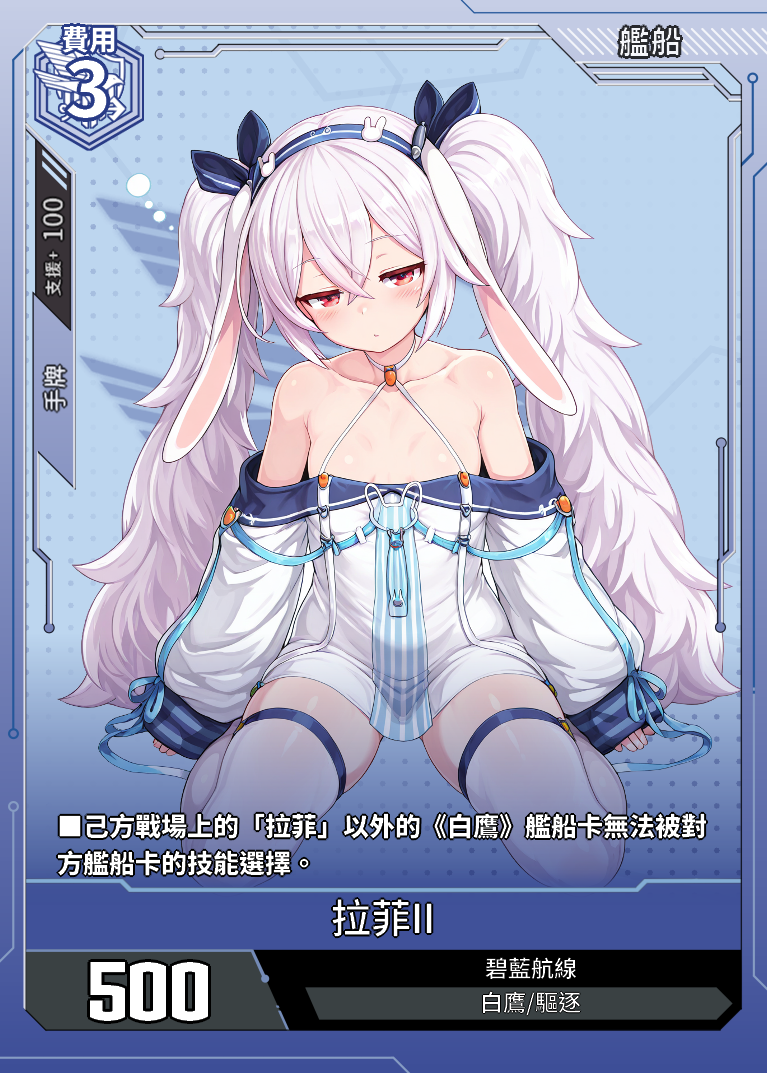
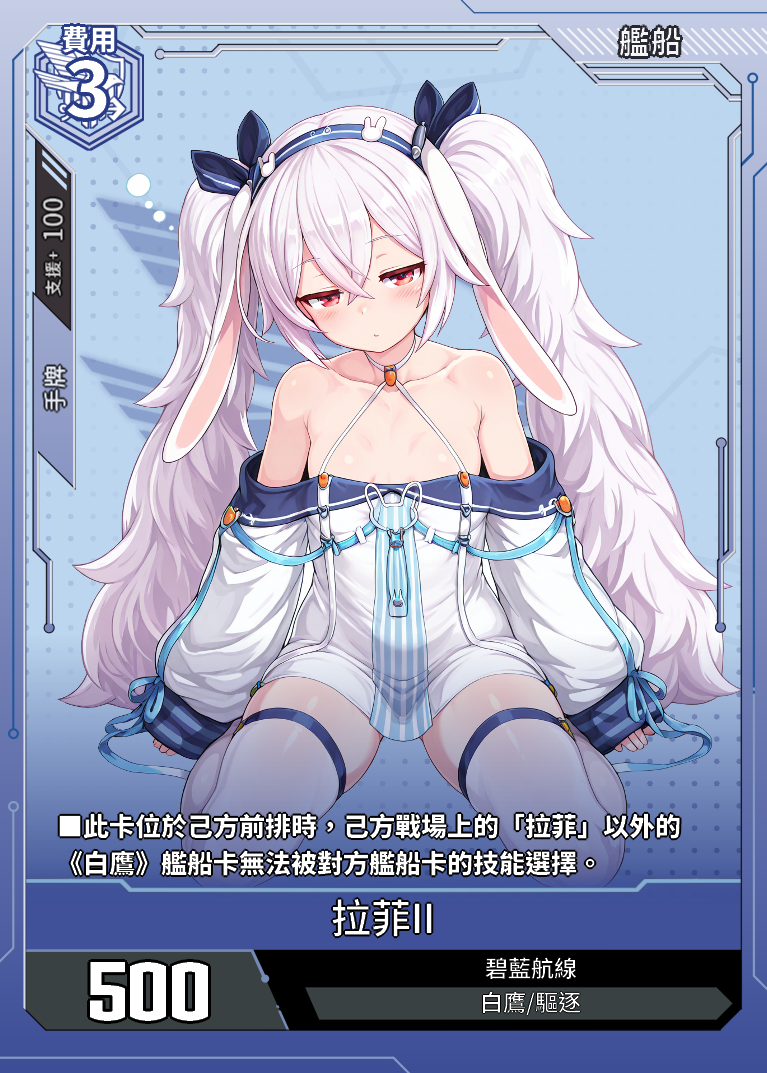
修正拉菲II

Changed region(s): [[0.06, 0.7381, 0.9296, 0.8304]]

diff --git a/data.js b/data.js
@@ -24564,7 +24564,7 @@ const cards = [
             "支援範圍": "手牌",
             "支援值": "100"
         },
-        "card_effect": "■己方戰場上的「拉菲」以外的《白鷹》艦船卡無法被對方艦船卡的技能選擇。",
+        "card_effect": "■此卡位於己方前排時，己方戰場上的「拉菲」以外的《白鷹》艦船卡無法被對方艦船卡的技能選擇。",
         "acquisition_method": "CE02-早期測試"
     },
 	{
